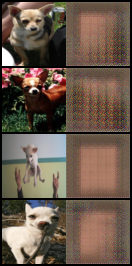
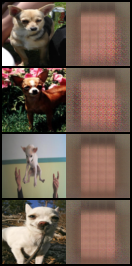
trying to process and crop images to get better dog images

diff --git a/src/preprocess_dogs.py b/src/preprocess_dogs.py
@@ -1,0 +1,118 @@
+import os
+from pathlib import Path
+import xml.etree.ElementTree as ET
+
+from PIL import Image
+from tqdm import tqdm
+
+
+def parse_bbox(annotation_path: Path):
+    tree = ET.parse(annotation_path)
+    root = tree.getroot()
+
+    # Stanford Dogs XML format
+    obj = root.find("object")
+    if obj is None:
+        return None
+
+    bbox = obj.find("bndbox")
+    if bbox is None:
+        return None
+
+    xmin = int(bbox.find("xmin").text)
+    ymin = int(bbox.find("ymin").text)
+    xmax = int(bbox.find("xmax").text)
+    ymax = int(bbox.find("ymax").text)
+    return xmin, ymin, xmax, ymax
+
+
+def main():
+    data_root = Path("data")
+    images_root = data_root / "dogs" / "Images"       # adjust if your folder is named differently
+    ann_root = data_root / "dogs" / "Annotation"      # from annotations.tar
+    out_root = data_root / "dogs_cropped"
+
+    out_root.mkdir(parents=True, exist_ok=True)
+
+    # Walk over all annotation files
+    ann_files = list(ann_root.glob("**/*.xml"))
+    print(f"Found {len(ann_files)} annotation files")
+
+    kept = 0
+    skipped = 0
+
+    for ann_path in tqdm(ann_files):
+        bbox = parse_bbox(ann_path)
+        if bbox is None:
+            skipped += 1
+            continue
+
+        xmin, ymin, xmax, ymax = bbox
+
+        # The image has the same stem, different extension, and lives in Images/
+        # e.g. Annotation/n02085620_10074/n02085620_10074.xml
+        #      Images/n02085620_10074.jpg
+        img_stem = ann_path.stem  # e.g. n02085620_10074
+        # Search for a matching image in Images (jpg or jpeg)
+        candidates = []
+        for ext in [".jpg", ".jpeg", ".png"]:
+            candidate = images_root / f"{img_stem}{ext}"
+            if candidate.exists():
+                candidates.append(candidate)
+
+        if not candidates:
+            skipped += 1
+            continue
+
+        img_path = candidates[0]
+
+        try:
+            img = Image.open(img_path).convert("RGB")
+        except Exception:
+            skipped += 1
+            continue
+
+        w, h = img.size
+
+        # Clamp bbox to image bounds (defensive)
+        xmin_clamped = max(0, min(xmin, w - 1))
+        xmax_clamped = max(0, min(xmax, w))
+        ymin_clamped = max(0, min(ymin, h - 1))
+        ymax_clamped = max(0, min(ymax, h))
+
+        if xmax_clamped <= xmin_clamped or ymax_clamped <= ymin_clamped:
+            skipped += 1
+            continue
+
+        # Optionally: ignore tiny boxes (dog too small)
+        box_area = (xmax_clamped - xmin_clamped) * (ymax_clamped - ymin_clamped)
+        img_area = w * h
+        if box_area < 0.1 * img_area:
+            # dog is tiny in the image; skip to keep dataset clean
+            skipped += 1
+            continue
+
+        cropped = img.crop((xmin_clamped, ymin_clamped, xmax_clamped, ymax_clamped))
+
+        # Make it square by padding with background (simple approach)
+        cw, ch = cropped.size
+        side = max(cw, ch)
+        square = Image.new("RGB", (side, side), (0, 0, 0))
+        offset_x = (side - cw) // 2
+        offset_y = (side - ch) // 2
+        square.paste(cropped, (offset_x, offset_y))
+
+        # Resize down to something like 128x128; later the dataset will downscale to 64 if needed
+        square = square.resize((128, 128), Image.BILINEAR)
+
+        out_path = out_root / f"{img_stem}.jpg"
+        square.save(out_path, quality=95)
+
+        kept += 1
+
+    print(f"Done. Kept {kept} cropped dog images, skipped {skipped} problematic ones.")
+    print(f"Cropped images stored in: {out_root}")
+
+
+if __name__ == "__main__":
+    main()

diff --git a/src/train_gan.py b/src/train_gan.py
@@ -17,21 +17,20 @@ def init_weights(m):
 
 
 def main():
-    # --- config ---
     data_root = "data"
     image_size = 64
     batch_size = 16
-    num_epochs = 20          # more training for GAN
+    num_epochs = 20         
     lr = 2e-4
     beta1 = 0.5
     beta2 = 0.999
-    lambda_L1 = 100.0        # Pix2Pix style weight on L1 loss
+    lambda_L1 = 50.0       
     num_workers = 2
 
     device = torch.device("cuda" if torch.cuda.is_available() else "cpu")
     print(f"Using device: {device}")
 
-    # --- dataset & dataloader ---
+    # dataset and dataloader
     dataset = DogHumanDataset(root=data_root, image_size=image_size)
     print(f"Found {len(dataset.dog_paths)} dog images")
     print(f"Found {len(dataset.human_paths)} human images")
@@ -44,14 +43,25 @@ def main():
         pin_memory=torch.cuda.is_available(),
     )
 
-    # --- models ---
+    # models
     G = Dog2HumanNet().to(device)
     D = PatchDiscriminator().to(device)
 
-    G.apply(init_weights)
+    baseline_ckpt = Path("checkpoints/baseline_epoch_5.pt")
+    if baseline_ckpt.exists():
+        print(f"Loading pretrained generator from {baseline_ckpt}")
+        ckpt = torch.load(baseline_ckpt, map_location=device, weights_only=True)
+        G.load_state_dict(ckpt["model_state_dict"])
+    else:
+        print("No baseline checkpoint found, training G from scratch.")
+        G.apply(init_weights)
+
+
+    
+
     D.apply(init_weights)
 
-    # --- losses & optimizers ---
+    # losses and optimizers
     criterion_GAN = nn.BCEWithLogitsLoss()
     criterion_L1 = nn.L1Loss()
 
@@ -71,12 +81,10 @@ def main():
         G.eval()
         with torch.no_grad():
             fake = G(fixed_dogs)
-            # unnormalize
             dogs_unnorm = (fixed_dogs * 0.5) + 0.5
             fake_unnorm = (fake * 0.5) + 0.5
             dogs_unnorm = dogs_unnorm.clamp(0, 1)
             fake_unnorm = fake_unnorm.clamp(0, 1)
-            # concat along width
             combined = torch.cat([dogs_unnorm, fake_unnorm], dim=3)
             from torchvision.utils import save_image
             out_path = samples_dir / f"epoch_{epoch}_samples.png"
@@ -102,13 +110,11 @@ def main():
             # -------------------------
             optimizer_D.zero_grad()
 
-            # Real pairs (dog, human)
-            real_pair = torch.cat([dogs, humans], dim=1)  # [B,6,H,W]
+            real_pair = torch.cat([dogs, humans], dim=1)
             pred_real = D(real_pair)
             target_real = torch.ones_like(pred_real, device=device)
             loss_D_real = criterion_GAN(pred_real, target_real)
 
-            # Fake pairs (dog, G(dog)) - detach so G not updated here
             with torch.no_grad():
                 fake_humans = G(dogs)
             fake_pair = torch.cat([dogs, fake_humans], dim=1)
@@ -149,7 +155,6 @@ def main():
         avg_loss_G = running_loss_G / len(dataloader)
         print(f"Epoch {epoch}: D_loss={avg_loss_D:.4f}, G_loss={avg_loss_G:.4f}")
 
-        # Save checkpoint for generator & discriminator
         ckpt_path = ckpt_dir / f"gan_epoch_{epoch}.pt"
         torch.save({
             "epoch": epoch,

diff --git a/app/main.py b/app/main.py
@@ -13,15 +13,13 @@ from sqlalchemy.orm import Session
 
 from .database import Base, engine, SessionLocal
 from .db_models import Generation
-from src.models import Dog2HumanNet  # re-use your generator
+from src.models import Dog2HumanNet 
 
 
 app = FastAPI()
 
-# Create tables
 Base.metadata.create_all(bind=engine)
 
-# Static & templates
 BASE_DIR = Path(__file__).resolve().parent
 static_dir = BASE_DIR / "static"
 uploads_dir = static_dir / "uploads"
@@ -42,11 +40,10 @@ def get_db():
         db.close()
 
 
-# Load model (GAN-trained generator)
 device = torch.device("cuda" if torch.cuda.is_available() else "cpu")
 G = Dog2HumanNet().to(device)
 
-# TODO: point this to your best GAN checkpoint
+# Can be pointed to a trained GAN checkpoint
 ckpt_path = Path("checkpoints_gan/gan_epoch_20.pt")
 if ckpt_path.exists():
     ckpt = torch.load(ckpt_path, map_location=device)
@@ -65,7 +62,7 @@ transform_input = transforms.Compose([
 
 
 def tensor_to_pil(tensor):
-    tensor = (tensor * 0.5) + 0.5     # [-1,1] -> [0,1]
+    tensor = (tensor * 0.5) + 0.5    
     tensor = tensor.clamp(0, 1)
     return transforms.ToPILImage()(tensor.squeeze(0).cpu())
 
@@ -79,7 +76,7 @@ async def index(request: Request):
 
 @app.post("/generate", response_class=HTMLResponse)
 async def generate(request: Request, file: UploadFile = File(...), db: Session = Depends(get_db)):
-    # Save uploaded dog image
+    # Saves dog image
     timestamp = datetime.utcnow().strftime("%Y%m%d%H%M%S%f")
     input_filename = f"dog_{timestamp}_{file.filename}"
     input_path = uploads_dir / input_filename
@@ -87,11 +84,11 @@ async def generate(request: Request, file: UploadFile = File(...), db: Session =
     with input_path.open("wb") as f:
         f.write(await file.read())
 
-    # Load & preprocess
+    # Preprocess input image
     img = Image.open(input_path).convert("RGB")
     img_t = transform_input(img).unsqueeze(0).to(device)
 
-    # Run generator
+    # Generate human image
     with torch.no_grad():
         fake = G(img_t)
 
@@ -103,7 +100,7 @@ async def generate(request: Request, file: UploadFile = File(...), db: Session =
 
     # Store in DB
     gen = Generation(
-        input_path=str(input_path.relative_to(static_dir.parent)),   # store relative
+        input_path=str(input_path.relative_to(static_dir.parent)),
         output_path=str(output_path.relative_to(static_dir.parent)),
     )
     db.add(gen)

diff --git a/src/models.py b/src/models.py
@@ -4,12 +4,11 @@ import torch.nn as nn
 
 class Dog2HumanNet(nn.Module):
     """
-    Simple conv encoder-decoder:
-    input:  3 x 64 x 64 dog image (in [-1, 1])
-    output: 3 x 64 x 64 human image (in [-1, 1])
+    Simple encoder and decoder that maps a 3x64x64 dog image to a 3x64x64
+    human image. Uses Tanh on the output so it matches [-1, 1] scaling.
     """
 
-    def __init__(self, in_channels: int = 3, base_channels: int = 32):
+    def __init__(self, in_channels: int = 3, base_channels: int = 64):
         super().__init__()
 
         self.encoder = nn.Sequential(
@@ -44,22 +43,20 @@ class Dog2HumanNet(nn.Module):
         return out
 
 
-import torch.nn as nn
-import torch
 
 
 class PatchDiscriminator(nn.Module):
     """
     Pix2Pix-style PatchGAN discriminator.
-    Takes concatenated [dog, human] images as input (6 channels total).
-    Outputs a grid of real/fake scores (patches).
+    Takes concatenated [dog, human] images as input.
+    Outputs a grid of real/fake scores.
     """
 
     def __init__(self, in_channels: int = 3, base_channels: int = 64):
         super().__init__()
         c = base_channels
 
-        # Input channels: dog (3) + human (3) = 6
+        # Input channels are dog (3) + human (3) = 6
         input_channels = in_channels * 2
 
         def conv_block(in_c, out_c, normalize=True):
@@ -70,20 +67,14 @@ class PatchDiscriminator(nn.Module):
             return nn.Sequential(*layers)
 
         self.model = nn.Sequential(
-            # 64x64 -> 32x32
             conv_block(input_channels, c, normalize=False),
-            # 32x32 -> 16x16
             conv_block(c, c * 2),
-            # 16x16 -> 8x8
             conv_block(c * 2, c * 4),
-            # 8x8 -> 4x4 (no stride 2 here, smaller patches)
             nn.Conv2d(c * 4, c * 8, kernel_size=4, stride=1, padding=1),
             nn.BatchNorm2d(c * 8),
             nn.LeakyReLU(0.2, inplace=True),
-            # Final 1-channel patch output
             nn.Conv2d(c * 8, 1, kernel_size=4, stride=1, padding=1)
         )
 
     def forward(self, x: torch.Tensor) -> torch.Tensor:
-        # x: [B, 6, H, W]
         return self.model(x)
